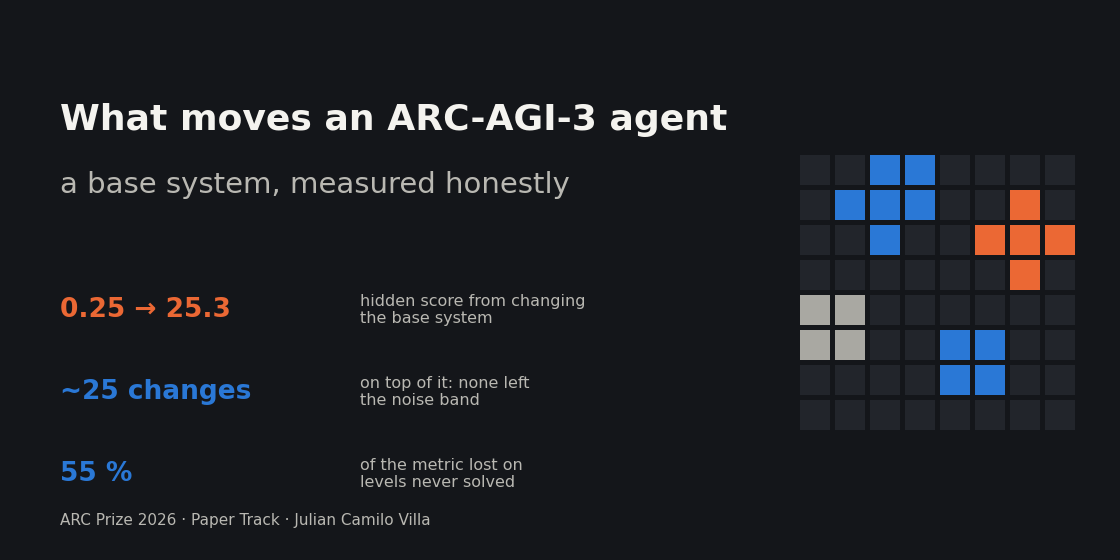
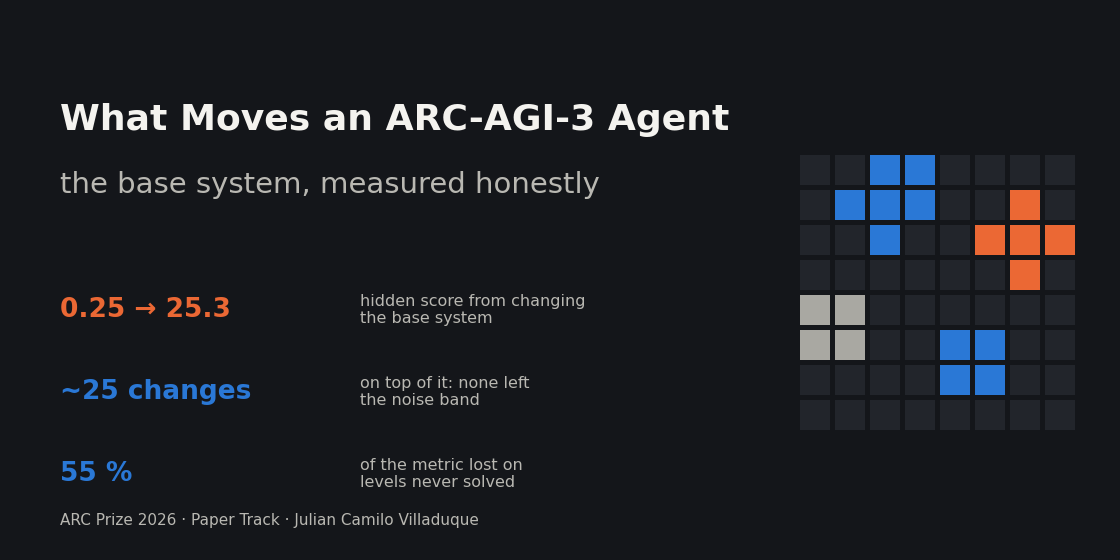
Rewrite the write-up in first person with a plain-words opening
Matches the ARC-AGI-2 write-up style; author name on the cover.
Still under 1,500 words. See docs/WRITEUP.md.

Changed region(s): [[0.1562, 0.1821, 0.6562, 0.2429], [0.0312, 0.3036, 0.5312, 0.3643], [0.375, 0.9107, 0.4375, 0.9411]]

diff --git a/scripts/make_cover.py b/scripts/make_cover.py
@@ -27,8 +27,8 @@ for r, row in enumerate(grid):
         ax.add_patch(Rectangle((x0 + c * s, y0 + (7 - r) * s), s - 0.5, s - 0.5,
                                color=cmap.get(ch, "#22252b"), lw=0))
 
-ax.text(6, 44, "What moves an ARC-AGI-3 agent", color=INK, fontsize=26, weight="bold", va="center")
-ax.text(6, 37.5, "a base system, measured honestly", color=INK2, fontsize=21, va="center")
+ax.text(6, 44, "What Moves an ARC-AGI-3 Agent", color=INK, fontsize=26, weight="bold", va="center")
+ax.text(6, 37.5, "the base system, measured honestly", color=INK2, fontsize=21, va="center")
 stats = [("0.25 → 25.3", "hidden score from changing\nthe base system"),
          ("~25 changes", "on top of it: none left\nthe noise band"),
          ("55 %", "of the metric lost on\nlevels never solved")]
@@ -36,6 +36,6 @@ for i, (big, small) in enumerate(stats):
     y = 25 - i * 8.2
     ax.text(6, y, big, color=ORANGE if i == 0 else BLUE, fontsize=19, weight="bold", va="center")
     ax.text(36, y, small, color=INK2, fontsize=11.5, va="center", linespacing=1.2)
-ax.text(6, 3.5, "ARC Prize 2026 · Paper Track · Julian Camilo Villa", color=INK2, fontsize=11)
+ax.text(6, 3.5, "ARC Prize 2026 · Paper Track · Julian Camilo Villaduque", color=INK2, fontsize=11)
 fig.savefig(OUT, facecolor=BG)
 print("wrote", OUT)

diff --git a/docs/WRITEUP.md b/docs/WRITEUP.md
@@ -1,144 +1,166 @@
-# What moves an ARC-AGI-3 agent: a base system, measured honestly
+# What Moves an ARC-AGI-3 Agent: The Base System, Measured Honestly
 
-*ARC Prize 2026 Paper Track (ARC-AGI-3). A faithful reproduction of the strongest public agent, about 25 controlled changes on top of it, and where the metric is actually lost.*
+*ARC Prize 2026 Paper Track (ARC-AGI-3). A faithful reproduction of the strongest public agent, about 25 controlled changes
+on top of it, and where the metric is actually lost.*
 
 [Español](WRITEUP.es.md) · [Back to the README](../README.md)
 
-**Team:** Julian Camilo Villa · **Competition:** ARC Prize 2026, ARC-AGI-3 (Kaggle) · **Final stack:** hidden-set mean 25.2 (n = 5); best submission 27.63 (control)
-**Submission IDs:** 56893893 (best, 27.63, control kernel [arc-agi3-franzen-m2](https://www.kaggle.com/code/juliancamilovilla/arc-agi3-franzen-m2)); 57924975 (final stack X2, 27.30, [arc-agi3-franzen-x2](https://www.kaggle.com/code/juliancamilovilla/arc-agi3-franzen-x2))  
-**Code:** [github.com/jvilladuque90/arc-prize-2026-arc-agi-3](https://github.com/jvilladuque90/arc-prize-2026-arc-agi-3) (MIT); every kernel is a one-cell variant of `notebooks/franzen_m2.ipynb`
+**Julian Camilo Villaduque** · ARC Prize 2026, ARC-AGI-3 · Best submission **27.63** (ID 56893893, notebook
+[arc-agi3-franzen-m2](https://www.kaggle.com/code/juliancamilovilla/arc-agi3-franzen-m2)); final stack X2 mean 25.2, best 27.30
+(ID 57924975, [arc-agi3-franzen-x2](https://www.kaggle.com/code/juliancamilovilla/arc-agi3-franzen-x2))
 
-## Summary
+Code (MIT): https://github.com/jvilladuque90/arc-prize-2026-arc-agi-3
 
-We spent three months on ARC-AGI-3, the interactive version of the benchmark, where an agent must discover the rules of unseen
-games by acting. Our own pipeline peaked at a mean of 3.2. Adopting Daniel Franzen's public Milestone-2 solution as a faithful
-control took us to 25.3. We then tested about 25 changes on top of a base, ten of them on the hidden set. None moved the score
-outside the noise, and one lowered it by three standard deviations.
+![Cover](figures/cover.png)
 
-The useful results are about measurement rather than a new trick:
+---
 
-1. **The base system is the lever.** Serving speed, context length and memory set the ceiling; prompt-level additions did not.
-2. **Local gates cannot rank changes.** A 10-game gate has a standard deviation of about 4 per run. Its ranking never matched the hidden set.
-3. **The metric is lost on unsolved levels, not on extra actions.** 55 % of the level-weighted score is lost on levels the agent never
-   solves. Only 2 % is lost on solved levels that took too many actions.
-4. **The server is bound by KV memory, not compute.** More parallel games decode faster at peak but generate 21 % fewer tokens.
+## In plain words
 
-![Score by base system](figures/cover.png)
+ARC-AGI-3 drops an agent into small video games it has never seen. There are no instructions. It must press buttons, watch
+what happens, work out the rules and clear the levels. Fewer actions earn more points. A human does this in minutes.
 
-## 1. Approach
+My agent is a language model that plays by writing short Python programs. It sees each frame as an image and remembers
+what it tried. I did not invent that agent. Daniel Franzen published it, and I copied it exactly. Then I asked one question:
+**which changes really raise the hidden score, and which only look like they do?**
 
-### 1.1 Base system
+My contribution is a **measurement method** and a **diagnosis**:
 
-The control is an unmodified copy of Franzen's Milestone-2 notebook, which builds on Tufa Labs' harness:
+1. **The base system is the lever.** Swapping my own pipeline for Franzen's took me from 3.2 to 25.3. Twenty-five careful
+   tweaks on top of it moved nothing beyond the noise. One lowered the score by three standard deviations.
+2. **The points are lost on levels the agent never understands, not on wasted moves.** 55 % of the score is lost on levels
+   never solved. Only 2 % is lost on solved levels that took too many actions.
+3. **The server runs out of memory before it runs out of compute.** Running more games at once makes the GPU faster at
+   peak, yet it produces 21 % less thinking.
+4. **Quick local tests cannot rank ideas.** Their noise is larger than any effect I chased.
 
-- **Model:** Qwen3.8-Flash-Next with Intel's AutoRound INT4 weights and Albucino's MTP draft model for speculative decoding.
-- **Serving:** Pennyroyal, an SGLang fork for the RTX PRO 6000, with a 128K context, an FP8 KV cache of 1.01 M tokens, and 10 games
-  decoding in parallel.
-- **Agent:** the model reasons with its full thinking kept in history. It acts through a Python tool. It sees the board as an upscaled
-  image plus animation frames, and diagnoses each game over from a diff image. It can undo, and it keeps the helper functions it writes
-  for the rest of the game.
-
-The three public milestone winners share long retained history, an FP8 KV cache, observable game over and undo, and persistent
-agent-written code. We took that shared core as the strongest prior available.
+Every experiment is reported, negatives included, so the next team need not pay for them again.
 
 ![Score by base system](figures/fig1_history.png)
 
-### 1.2 Our additions
+---
 
-Each addition is one notebook cell that patches the harness by exact-anchor replacement. Each one has a unit test against the real
-harness file.
+## 1. The system
+
+### 1.1 The base I copied
+
+The control is an unmodified copy of Franzen's Milestone-2 notebook, which builds on Tufa Labs' harness.
+
+| Part | What it does |
+|---|---|
+| Model | Qwen3.8-Flash-Next, Intel AutoRound INT4 weights, Albucino's MTP draft model for speculative decoding |
+| Serving | Pennyroyal (an SGLang fork for the RTX PRO 6000): 128K context, FP8 KV cache of 1.01 M tokens, 10 games decoding at once |
+| Agent | Keeps its full reasoning in history; acts through a Python tool; sees the board as an image plus animation frames; reads each game over from a diff image; can undo; keeps the helper functions it writes |
+| Scheduler | Gives the GPU to the games making the most progress per token over a 9-hour budget |
+
+### 1.2 What I added
+
+Each addition is one notebook cell that patches the harness by exact text replacement. Each one has a unit test against the
+real harness file.
 
 | Arm | What it changes | Source |
 |---|---|---|
-| **S1** solved-level memory | When a level is cleared, its facts and a one-line rule written by the model are pinned at the end of the system prompt | `lalalia9` (CC-BY 4.0), after `rellik13` |
-| **M1** seeded helpers | Each game starts with 7 tested utilities, chosen from what the model rewrote most often in 70 saved logs | ours |
-| **C1** stagnation reset | After 96K tokens on one unfinished level, clear the reasoning context once | `heliosli` |
-| **H1** sandbox fixes | Keep the function library after a sandbox timeout; cap huge tool outputs | ours |
-| **X1, X2** | X1 = S1 + M1; X2 = X1 + C1 (the final submission) | — |
+| **S1** solved-level memory | When a level is cleared, its facts and a one-line rule written by the model are pinned to the system prompt | `lalalia9` (CC-BY 4.0), after `rellik13` |
+| **M1** seeded helpers | Each game starts with 7 tested utilities, chosen from what the model rewrote most often in 70 saved logs | mine |
+| **C1** stagnation reset | After 96K tokens stuck on one level, clear the reasoning context once | `heliosli` |
+| **H1** sandbox fixes | Keep the function library after a timeout; cap huge tool outputs | mine |
+| **X1, X2** | X1 = S1 + M1; X2 = X1 + C1 (my final submission) | — |
 
-We also tried serving changes: deeper MTP drafting (T1), 12 parallel games (T2), lower reasoning effort (E1) and deeper history (D1).
+I also tested serving changes: deeper speculative drafting (T1), 12 parallel games (T2), lower reasoning effort (E1) and
+deeper history (D1).
 
-### 1.3 Protocol
+### 1.3 How I tested
 
-- **One variable per arm, against a faithful control.** Each arm differs from the control in one cell.
-- **A local gate only screens out breakage.** The gate is a 25-minute run on 10 public games. It also measures decode tokens per second
-  and the speculative acceptance length, which repeat to about 1 % and so can judge serving changes.
-- **Ranking comes only from the hidden set.** We submitted once per day, compared by game with sign tests, and wrote each decision rule
-  down before its result arrived.
+- **One variable per arm, against a faithful control.** Each arm differs from the control in exactly one cell.
+- **A local gate only catches breakage.** It is a 25-minute run on 10 public games. It also records decode speed and
+  speculative acceptance. Those repeat to about 1 %, so they can judge serving changes when the score cannot.
+- **Only the hidden set ranks.** I submitted once a day, compared arms game by game with sign tests, and wrote each
+  decision rule down before its result arrived.
+
+---
 
 ## 2. Results
 
-### 2.1 Hidden set
+### 2.1 The hidden set
 
 ![Hidden-set samples by arm](figures/fig2_arms.png)
 
-The control's eight samples span 23.4 to 27.6, with a mean of 25.3 and a standard deviation of 1.6. At one submission per day, telling
-two arms apart by 2 points needs about 8 samples each. No arm got close to that many.
+The control's eight samples run from 23.4 to 27.6: mean 25.3, standard deviation 1.6. With one submission a day, telling two
+arms apart by 2 points takes about 8 samples each. No arm got close to that many.
 
 - **E1 hurt.** Lowering the reasoning effort tripled the local score on hard games, then scored 20.98 on the hidden set.
-- **Everything else stayed in the band.** S1, D′ and X1 sat slightly above the control mean. X2, our final stack, ended at 25.2 over five
-  samples.
+- **Everything else stayed inside the band.** S1, D′ and X1 sat slightly above the control mean. X2, my final stack, ended at
+  25.2 over five samples.
 
-### 2.2 Why local gates cannot rank
+### 2.2 Why local tests cannot rank
 
 ![Gate score versus hidden score](figures/fig3_gates.png)
 
-Identical gate runs differ by tens of points on single games. The best gate of the final month, C1 at 50.7, would have been a false
-lead. An older local bench was anti-correlated with the hidden set across four arms (r = −0.35).
+Identical gate runs differ by tens of points per game. My best gate of the final month, C1 at 50.7, would have been a
+false lead. An older local bench was even anti-correlated with the hidden set across four arms (r = −0.35).
 
 ### 2.3 Where the score is lost
 
 ![Metric decomposition](figures/fig4_metric_loss.png)
 
-The metric squares the ratio of baseline actions to actions taken, per level, and weights later levels more. We split the 50 game runs
-of our gates by level. Solved levels already score close to full: 40 % of the weight comes from levels solved in no more actions than
-the baseline. The loss is on levels never solved, usually the later ones that weigh most. On hard public games each action costs
-about 2,200 reasoning tokens against 600 on easy ones. The gap is how fast the model understands a new game.
+The metric squares the ratio of baseline actions to actions taken, per level, and weights later levels more. I split 50 gate
+game runs by level. Solved levels already score close to full: 40 % of the weight comes from levels solved within
+the baseline. The loss is on levels never solved, usually the later ones that weigh most. On hard public games each action
+costs about 2,200 reasoning tokens, against 600 on easy ones. **The gap is how fast the model understands a new game**, not
+how efficiently it moves.
 
-### 2.4 Throughput is capped by memory
+### 2.4 Thinking is capped by memory
 
 ![Throughput at 10 and 12 streams](figures/fig5_concurrency.png)
 
-If unsolved levels are the loss, more reasoning tokens per game should help, so we pushed the server.
+If the loss is on levels not understood, more thinking per game should help. So I tried to squeeze more tokens out of the
+server.
 
-- **Time:** the 9-hour budget is already used in full, and loading 185 GB of model files at Kaggle's input bandwidth costs 15 to 28 minutes.
-- **Deeper MTP drafting:** impossible. The attention kernels cap draft tokens at 4.
-- **12 parallel games:** peak decode rose from 687 to 759 tokens per second. The KV pool then saturated, games were evicted and
-  re-prefilled, and total output fell from 842 K to 662 K tokens.
+- **Deeper drafting:** impossible. The attention kernels cap draft tokens at 4.
+- **12 parallel games:** peak decode rose from 687 to 759 tokens per second. Then the KV pool filled up, games were evicted
+  and re-read, and total output fell from 842 K to 662 K tokens.
 
-Franzen's configuration of 10 parallel games sits at the optimum.
+Franzen's choice of 10 parallel games sits at the optimum.
+
+---
 
 ## 3. Why it works, and why the tweaks did not
 
-An ARC-AGI-3 game is solved by forming a hypothesis about hidden rules, testing it with a few actions, and revising it. In this
-system each revision is paid in reasoning tokens. The score is therefore roughly the number of hypothesis cycles a game receives,
-times the chance that a cycle is right. The base system raises both terms. Fast serving raises the cycle count. Long retained
-history, diff images and persistent code mean each cycle starts from everything already learned. Our additions only reshaped
-context that the model already had, so they changed neither term much. The data agree: the loss sits on levels never
-understood (§2.3), and the cycle budget is capped by KV memory (§2.4). The method transfers to any agentic benchmark scored
-on a hidden set: reproduce the strongest public system first, instrument the mechanism, and size each test against the noise.
+An ARC-AGI-3 game is solved by guessing a hidden rule, testing the guess with a few actions, and revising it. Here every
+revision is paid in reasoning tokens. So the score is roughly:
+
+**score ≈ (hypothesis cycles a game receives) × (chance that a cycle is right)**
+
+The base system raises both terms. Fast serving raises the number of cycles. Long history, diff images and persistent code
+mean each cycle starts from everything already learned. My additions only rearranged context the model already had, so they
+moved neither term. The data agree. The loss sits on levels never understood (§2.3), and the number of cycles is capped by
+KV memory (§2.4).
+
+The lesson transfers to any agentic benchmark scored on a hidden set. Reproduce the strongest public system first, measure
+the mechanism, and size every test against the noise before running it.
 
 ## 4. Lessons
 
-1. **Count the samples before running.** With a standard deviation of 1.6 and one sample per day, most ideas cannot be confirmed in
-   time. Know that before spending the submission.
-2. **Instrument the mechanism, not the score.** Tokens per second, acceptance length and KV usage repeat to about 1 %. They settled two
-   serving questions that score samples never could.
-3. **Infrastructure fails silently.** Three submissions scored exactly 0 when Kaggle stopped setting the rerun variable. Six gates died
-   when containers mounted inputs in an older directory layout. Both fixes are in every notebook (`docs/RESULTS.md` §3.1).
-4. **Harness-written notes do not help; the agent's own data might.** Seven note-writing variants all scored at or below the base. The
-   only text addition with a public positive report, S1, is the agent's own rule.
+1. **Count the samples before running.** With a standard deviation of 1.6 and one sample a day, most ideas cannot be
+   confirmed in time. Know that before spending the submission.
+2. **Measure the mechanism, not the score.** Tokens per second, acceptance length and KV usage repeat to about 1 %. They
+   settled two serving questions that score samples never could.
+3. **Infrastructure fails silently.** Three of my submissions scored exactly 0 when Kaggle stopped setting the rerun
+   variable. Six gates died when containers mounted inputs in an older directory layout. Both fixes are in every notebook.
+4. **Notes written by the harness do not help; the agent's own words might.** Seven note-writing variants all scored at or
+   below the base. The only text addition with a positive public report, S1, is the agent's own rule.
 
-## 5. What we would try next
+## 5. What I would try next
 
-The remaining gap, from 25 to the 70s of the leaders, is speed of understanding. It does not come from action economy or scheduling.
-The candidates that address it are a stronger or more token-efficient model, calibrated FP8 KV scales, and a replay bench that judges
-serving changes from saved prompts without spending submissions.
+The gap from 25 to the leaders' 70s is speed of understanding. It does not come from action economy or scheduling. The
+candidates that attack it are a stronger or more token-efficient model, calibrated FP8 KV scales that free memory for more
+thinking, and a replay bench that judges serving changes from saved prompts without spending submissions.
 
 ## Acknowledgements
 
 Daniel Franzen for publishing the Milestone-2 solution in full; Tufa Labs for the harness; John Pezzulli (Pennyroyal), Mamy
-Ratsimbazafy and Gabriel Olympie for SGLang work; Intel (AutoRound) and Albucino (MTP draft); `lalalia9`, `rellik13` and `heliosli`
-for S1 and C1; the ARC Prize Foundation and Kaggle.
+Ratsimbazafy and Gabriel Olympie for the SGLang work; Intel (AutoRound) and Albucino (MTP draft); `lalalia9`, `rellik13` and
+`heliosli` for S1 and C1; the ARC Prize Foundation and Kaggle.
 
-All numbers come from [docs/RESULTS.md](RESULTS.md). The figures are generated by `scripts/make_writeup_figures.py`.
+All numbers come from [docs/RESULTS.md](RESULTS.md). The figures are generated by `scripts/make_writeup_figures.py` and
+`scripts/make_cover.py`.
